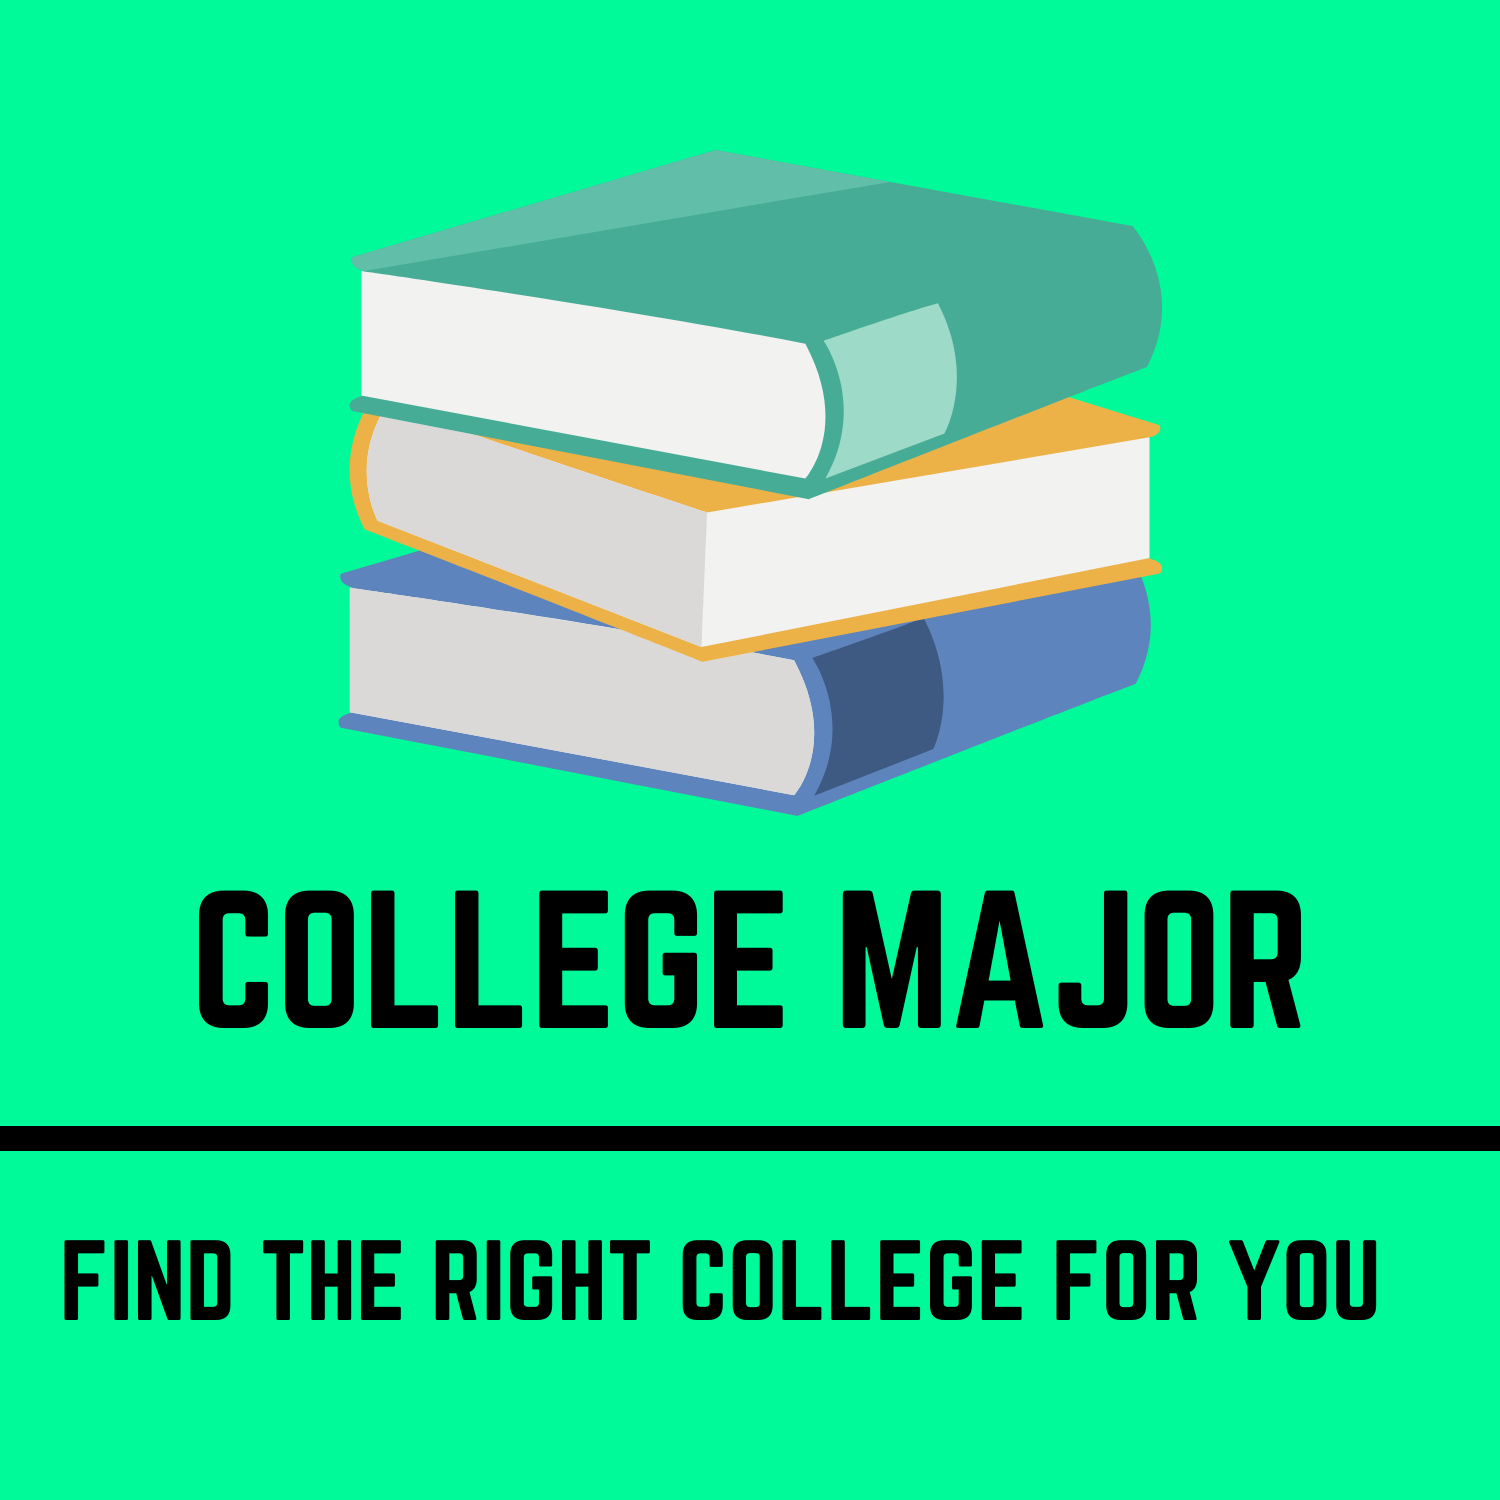
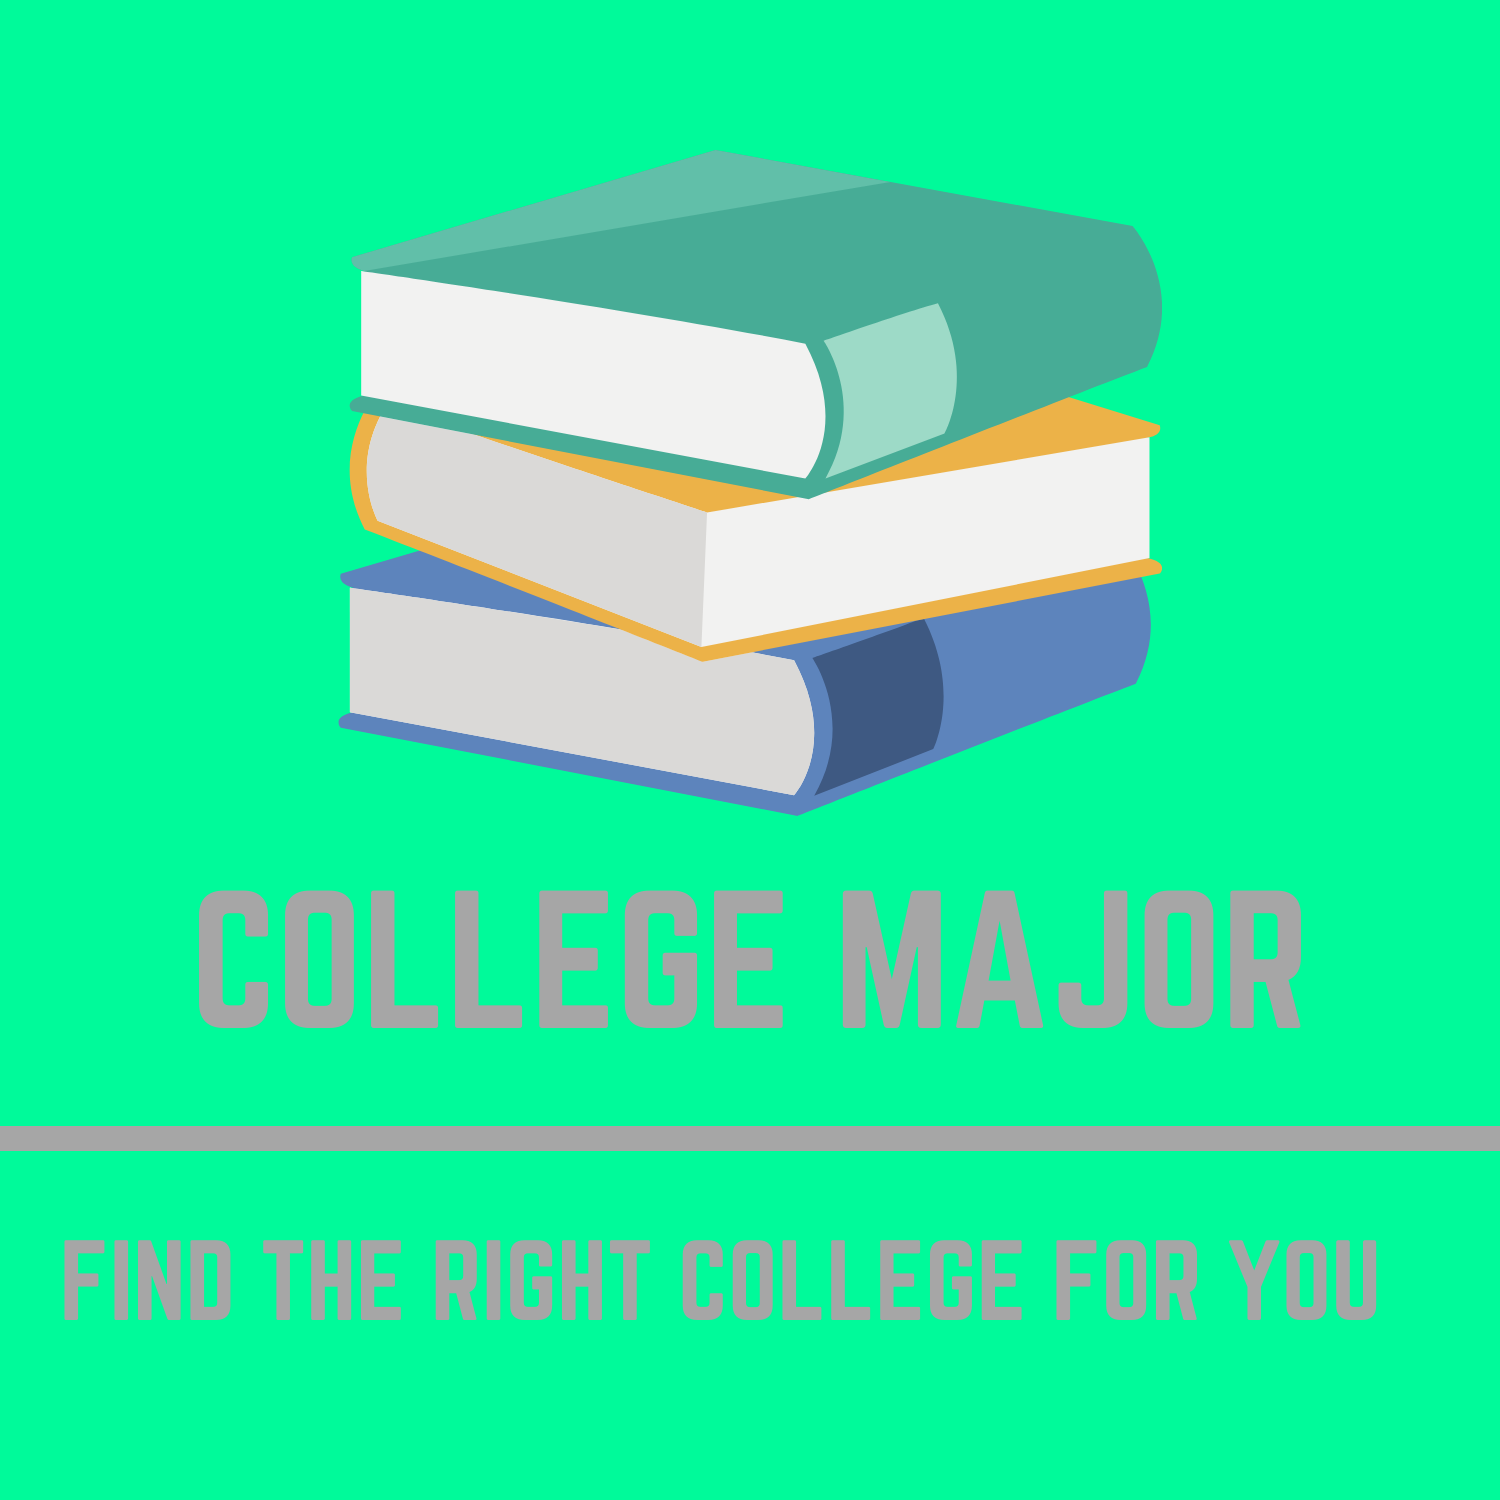
new intro page

diff --git a/templates/title-page.html b/templates/title-page.html
@@ -1,0 +1,32 @@
+<!DOCTYPE html>
+<html lang="en">
+<head>
+    <meta charset="UTF-8">
+
+    <!-- jquery -->
+    <script src="//code.jquery.com/jquery-1.12.0.min.js"></script>
+    <script src="//code.jquery.com/jquery-migrate-1.2.1.min.js"></script>
+    <!-- [/] jquery -->
+
+    <!-- Bootstrap CSS-->
+    <link rel="stylesheet" href="https://stackpath.bootstrapcdn.com/bootstrap/4.4.1/css/bootstrap.min.css" integrity="sha384-Vkoo8x4CGsO3+Hhxv8T/Q5PaXtkKtu6ug5TOeNV6gBiFeWPGFN9MuhOf23Q9Ifjh" crossorigin="anonymous">
+    <script src="https://cdn.jsdelivr.net/npm/popper.js@1.16.0/dist/umd/popper.min.js" integrity="sha384-Q6E9RHvbIyZFJoft+2mJbHaEWldlvI9IOYy5n3zV9zzTtmI3UksdQRVvoxMfooAo" crossorigin="anonymous"></script>
+    <script src="https://stackpath.bootstrapcdn.com/bootstrap/4.5.0/js/bootstrap.min.js" integrity="sha384-OgVRvuATP1z7JjHLkuOU7Xw704+h835Lr+6QL9UvYjZE3Ipu6Tp75j7Bh/kR0JKI" crossorigin="anonymous"></script>
+
+    <!--Custom stylesheets-->
+    {% load static %}
+    <link rel ="stylesheet" href = "{% static 'css/title-page.css' %}"></link>
+    <title>College Major</title>
+</head>
+<body>
+<!-- Webpage logo -->
+<div class = "logo">
+<img src = "{% static "images/College_Major.png" %}"/>
+<!-- buttons that redirect to Masters & Bachelors degree, respectively-->
+<a href = "{% url 'index' %}" class="btn btn-primary">Bachelors</a>
+<a href = "{% url 'masters' %}" class="btn btn-primary">Masters</a>
+</div>
+<!-- CSS Buttons -->
+</body>
+
+</html>

diff --git a/main/static/CSS/title-page.css b/main/static/CSS/title-page.css
@@ -1,0 +1,35 @@
+/* Webpage color scheme*/
+body {
+    background:  #a6a6a6;
+}
+
+/*Centers and scales logo*/
+.logo {
+        width: 60%;
+        margin-left: auto;
+        margin-right: auto;
+    background:  mediumspringgreen;
+    }
+
+/*Makes sure logo fits into container*/
+img {
+        max-width: 100%;
+        max-height: 100%;
+        display: block; /* remove extra space below image */
+}
+
+/*Button CSS*/
+.btn-primary {
+    background-color: mediumspringgreen; /* Green */
+  border: 3px solid #a6a6a6;
+  color: #a6a6a6;
+    width: 49%;
+  text-align: center;
+    align-self: center;
+  display: inline-block;
+    font-size: 60px;
+}
+.btn-primary:hover {
+  background-color: #4CAF50; /* Green */
+  color: white;
+}

diff --git a/templates/index.html b/templates/index.html
@@ -6,7 +6,7 @@
           content="width=device-width, user-scalable=no, initial-scale=1.0, maximum-scale=1.0, minimum-scale=1.0">
     <meta http-equiv="X-UA-Compatible" content="ie=edge">
     <title>CollegeMajor: Main Page</title>
-
+    <!-- datatables libraries-->
     <link rel="stylesheet" type="text/css"
           href="https://cdn.datatables.net/v/ju-1.12.1/jq-3.3.1/dt-1.10.21/datatables.min.css"/>
 

diff --git a/main/urls.py b/main/urls.py
@@ -1,7 +1,7 @@
 from django.urls import path
 from django.views.generic import TemplateView
 from django.conf.urls import url
-from main.views import CollegeMajor, MajorAutoComplete, SchoolAutoComplete
+from main.views import CollegeMajor, MajorAutoComplete, SchoolAutoComplete, TitleView
 from main.views_masters import CollegeMajor as CollegeMajorMasters,\
     MajorAutoComplete as MajorAutoCompleteMasters, SchoolAutoComplete as SchoolAutoCompleteMasters
 
@@ -9,7 +9,7 @@ from main.views_masters import CollegeMajor as CollegeMajorMasters,\
 from . import views
 
 """
-'major-autocomplete' and 'university-autocomplete' needs to be implemented more securely
+'main' is going to be the title page
 """
 urlpatterns = [
     path('', CollegeMajor.as_view(), name='index'),
@@ -30,8 +30,9 @@ urlpatterns = [
         name='major-autocomplete-masters',
     ),
     url(
-        r'^school-autocomplete/$',
+        r'^school-autocomplete-masters/$',
         SchoolAutoCompleteMasters.as_view(),
         name='school-autocomplete-masters',
     ),
+    path('title-page', TitleView.as_view(), name = 'title-page')
 ]

diff --git a/main/views.py b/main/views.py
@@ -134,7 +134,11 @@ class SchoolAutoComplete(autocomplete.Select2QuerySetView):
         result = result[0].title()
         return result
 
-
+#placeholder class for titlepage
+class TitleView(TemplateView):
+    def get(self, request):
+        context = {}
+        return render(request, "title-page.html", context)
 """
 Helper Methods - (Could possibly be reimplemented in class?)
 """
@@ -159,6 +163,8 @@ def highest_major(major, university_list):
         coords = {'x': m.md_earn_wne, 'y': m.debtmedian}
 
         if coords['y'] != 'PrivacySuppressed':
+            # test code for salary debt density
+            #coords = {'x': m.md_earn_wne, 'y': str(int(m.md_earn_wne) / int(m.debtmedian))}
             if m.control == "Private, nonprofit":
                 coordinate_points["Private, nonprofit"].append(coords)
                 uni_names["Private, nonprofit"].append(m.instnm.title())
